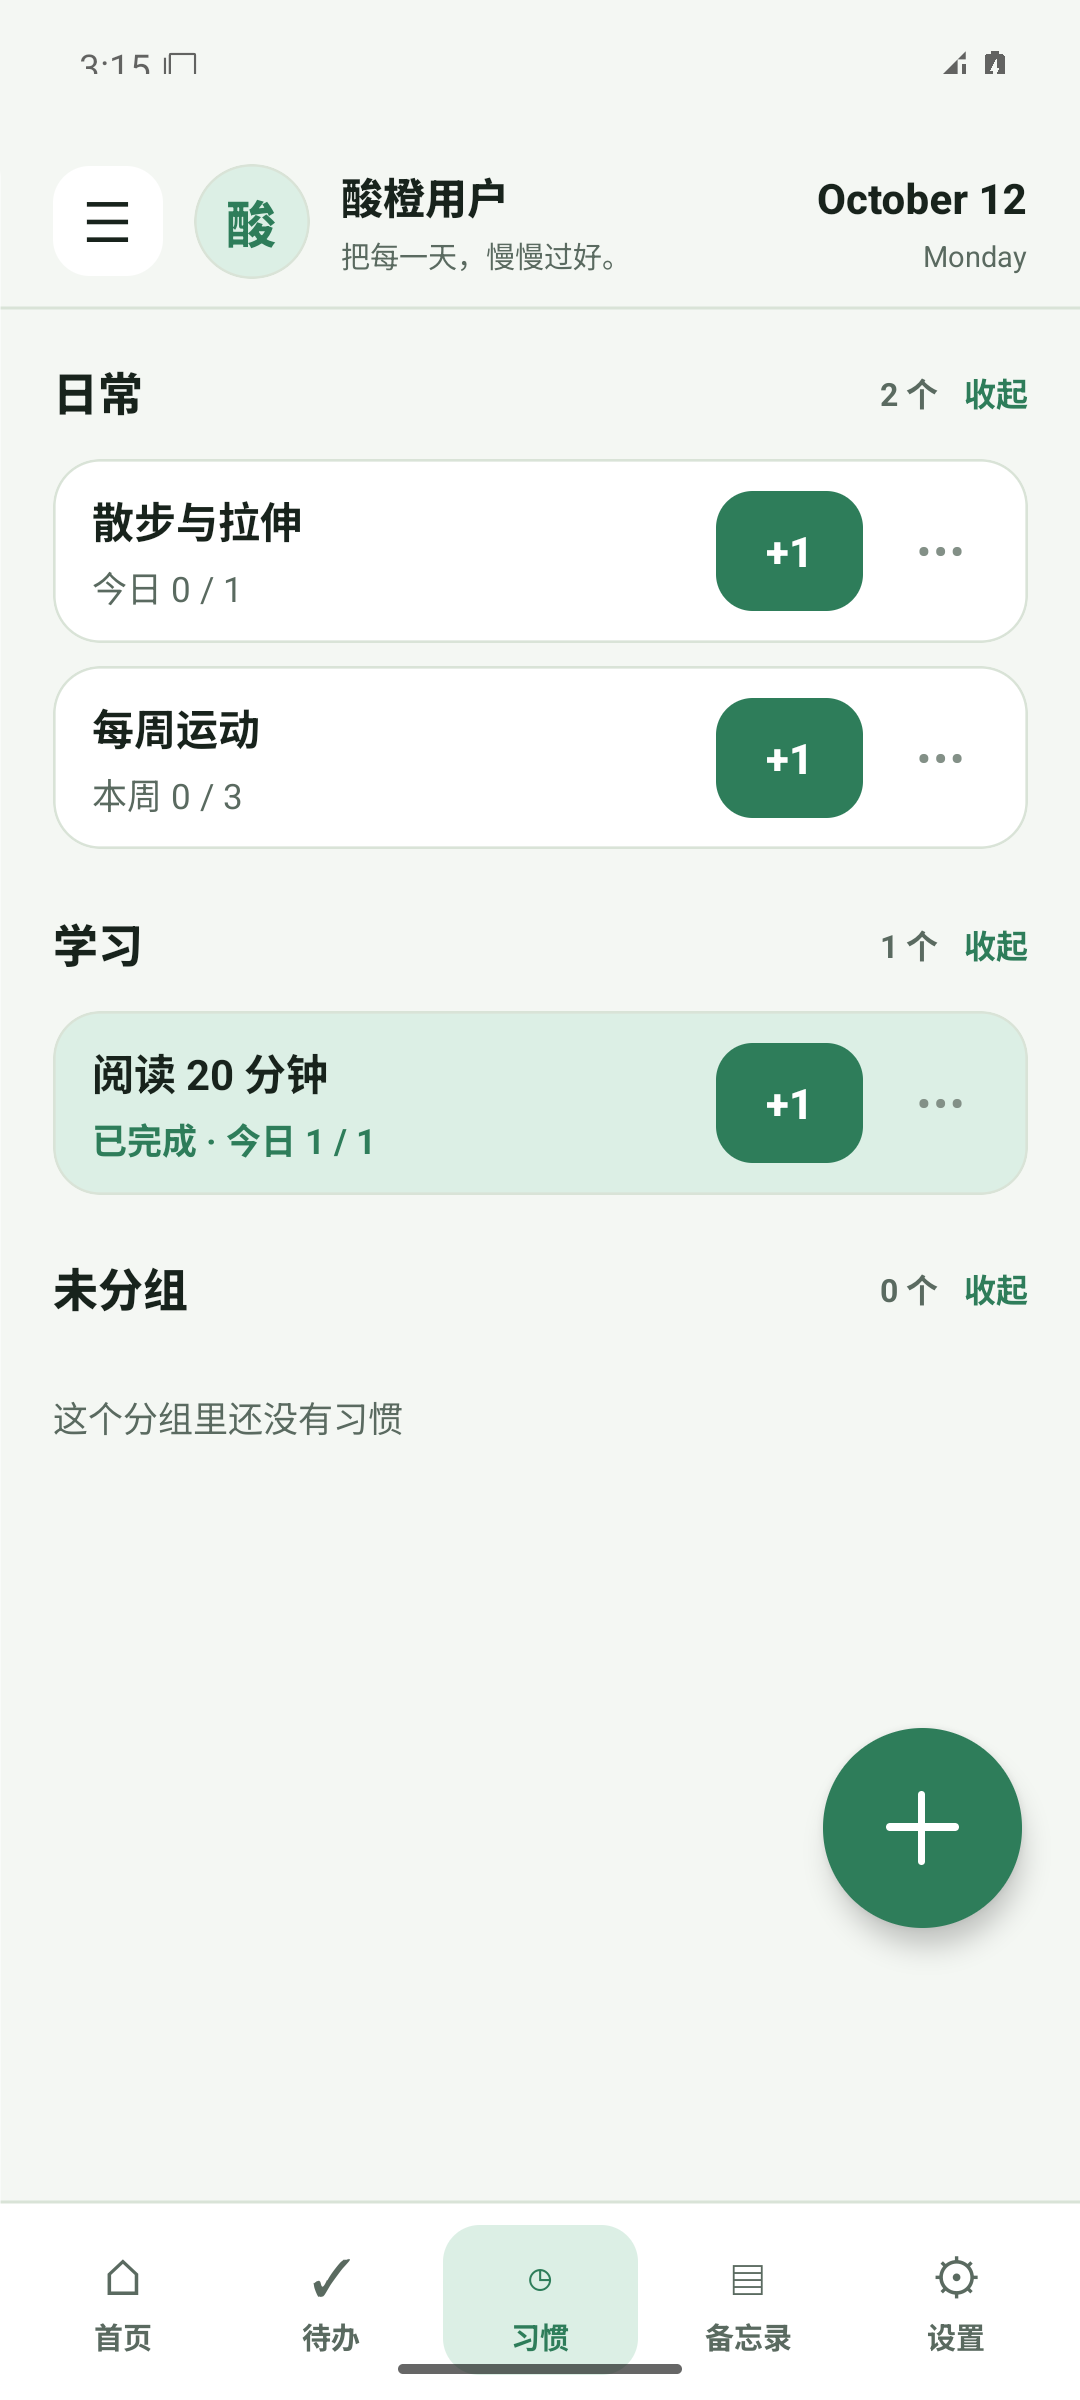
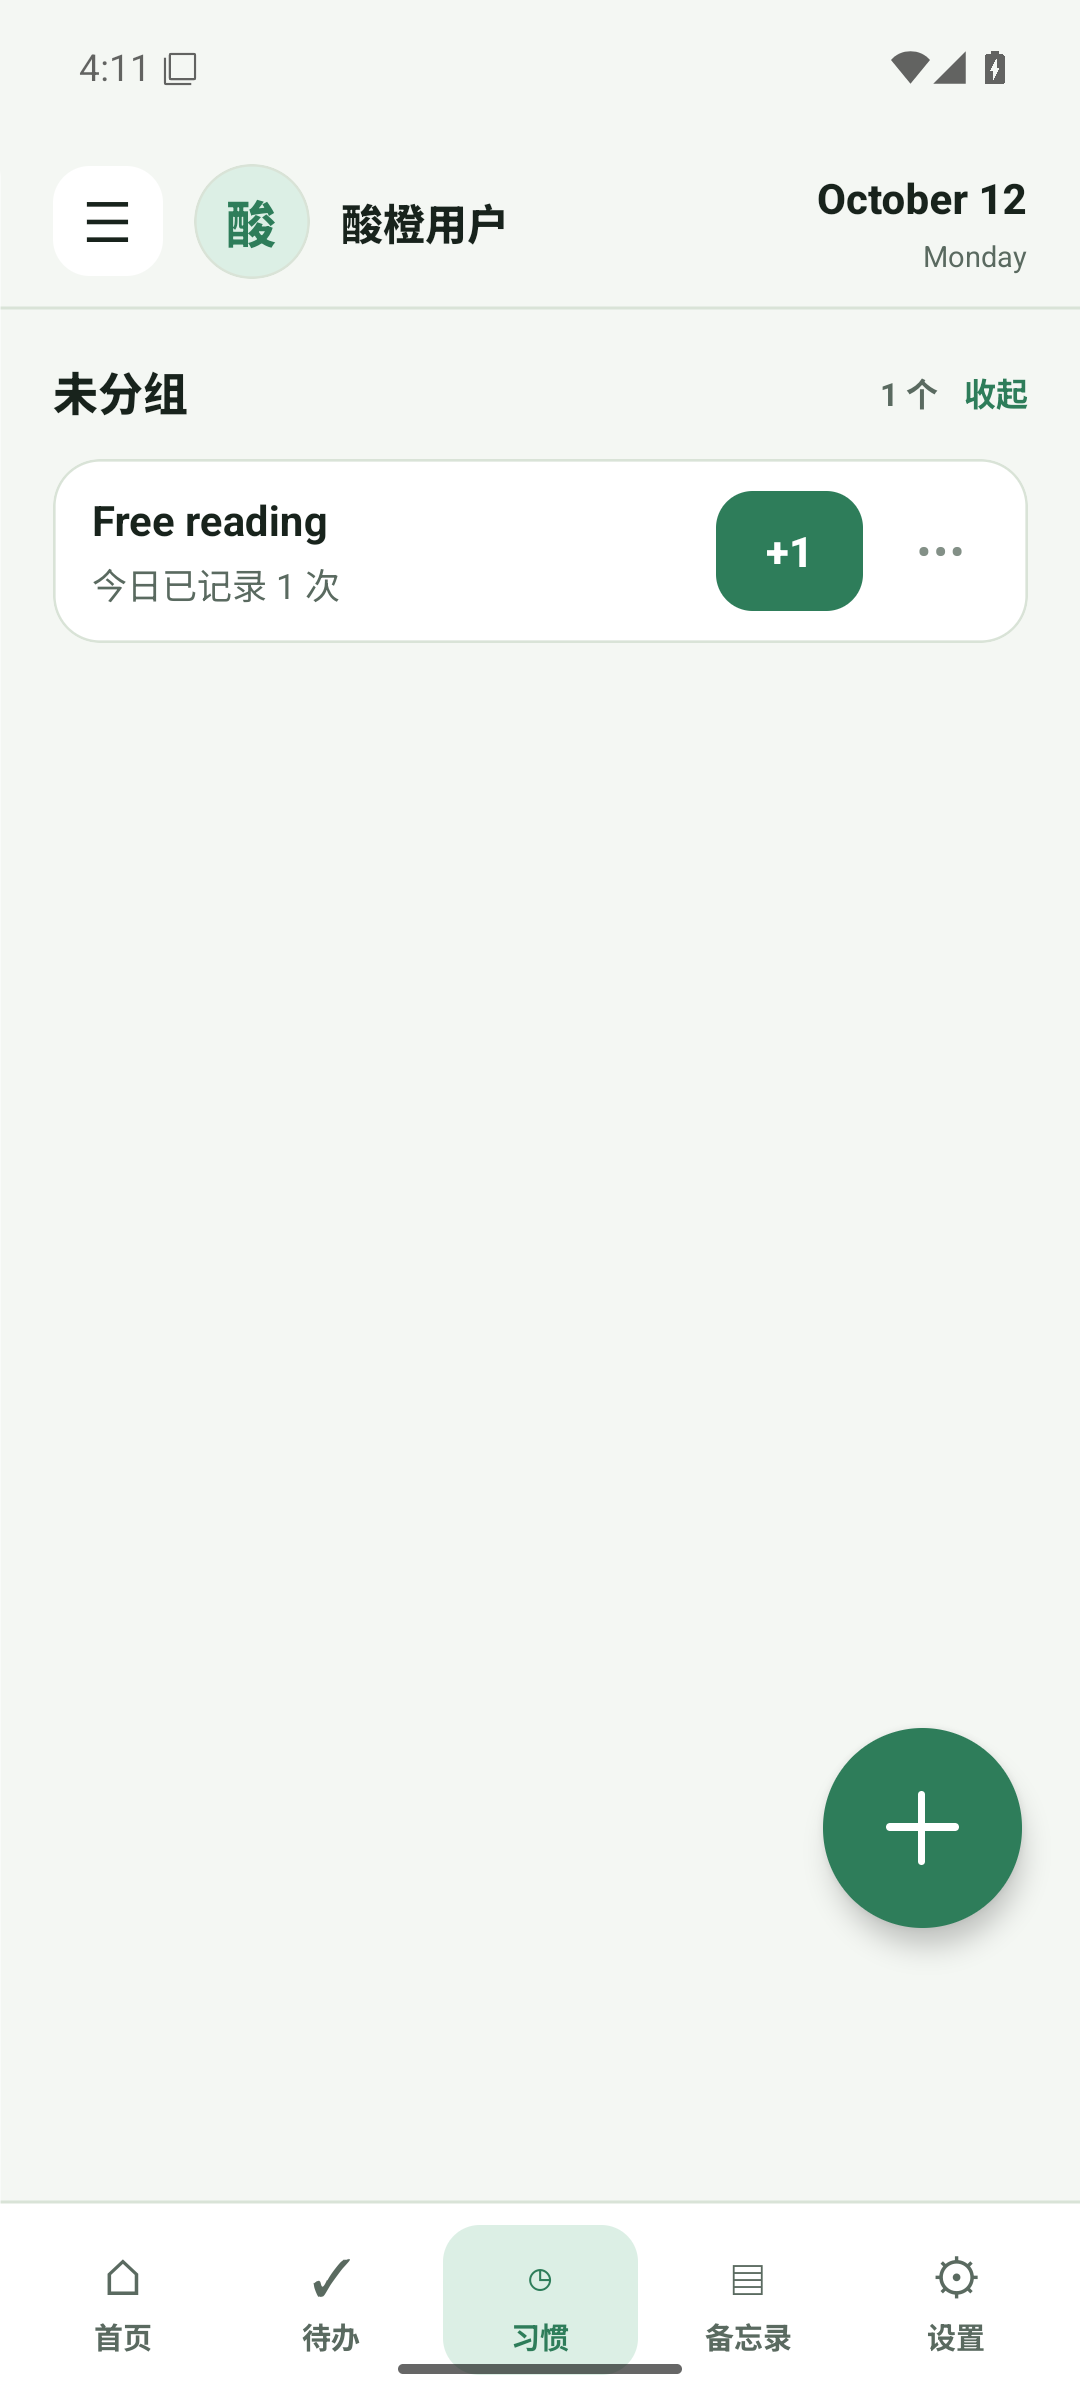
docs: show optional habit goals and link the AI test edition

diff --git a/docs/README.en.md b/docs/README.en.md
@@ -4,7 +4,7 @@ An offline Android app for **habits, tasks and memos**. No account or server req
 
 [Download APK](https://github.com/2742360657/Lime/releases/latest) · [Chinese guide](../README.md) · [Development](development.md)
 
-- Habits: daily/weekly/monthly goals, groups, check-ins, history and archiving.
+- Habits: optional daily/weekly/monthly goals or free recording, groups, check-ins, history and archiving.
 - Tasks: dates and times, date buckets, sorting and completion.
 - Memos: autosave, categories, search and a recoverable trash bin.
 - Today overview, six color themes, local profile and JSON backup/restore.
@@ -15,4 +15,4 @@ The main release has no network permission, advertising or analytics. File shari
 
 For development, use Node 22, JDK 17 and Android SDK 36: `npm ci`, `npm run check`, then `npm start`. `npm run build:preview` creates a standalone development-signed APK. Agents should read [AGENTS.md](../AGENTS.md).
 
-main is the maintained offline app. extended/dev preserves the paused AI/messaging experiment and is not included in current releases. Licensed under [MIT](../LICENSE).
+main is the maintained offline app. extended/dev contains a separately installable AI/messaging test edition; it is not included in the offline APK. See the [AI edition](ai-edition.md). Licensed under [MIT](../LICENSE).

diff --git a/README.md b/README.md
@@ -17,6 +17,10 @@
 
 截图使用隔离模拟器中的示例数据。
 
+新建习惯默认自由记录；需要周期目标时再打开开关：
+
+<img src="docs/screenshots/habit-create.png" width="220" alt="新建习惯可不设置目标">
+
 ## 可以做什么
 
 | 功能 | 内容 |
